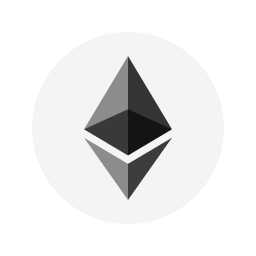
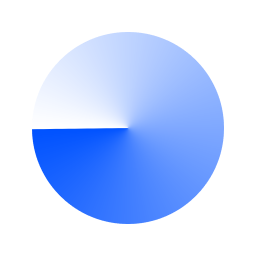
Update base network image and tokens (#11)
* Update base network image

* Update script

* Update empty token image

* Add DAI image

diff --git a/script/downscale.py b/script/downscale.py
@@ -17,6 +17,8 @@ CHAINS = [
     "arbitrumone",
     "avalanche",
     "baobab",
+    "base",
+    "basegoerli",
     "bifrost",
     "bifrosttest1",
     "binance",
